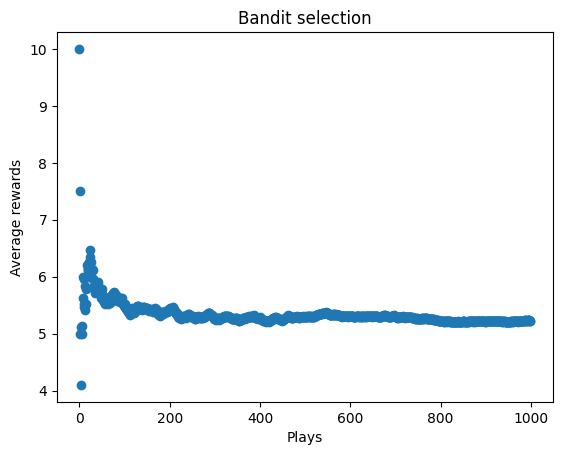
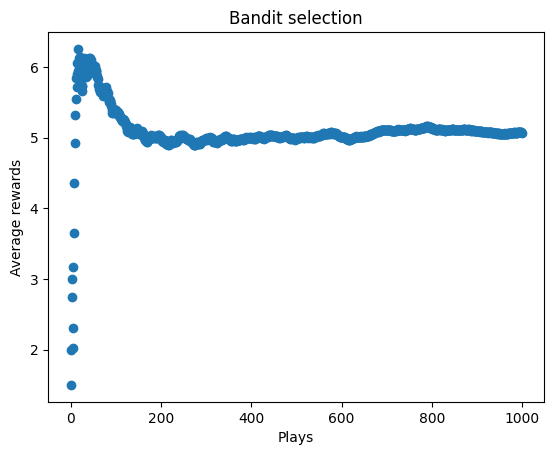
chore: simplify policy

diff --git a/docs/02_markov_decision_process.md b/docs/02_markov_decision_process.md
@@ -34,22 +34,24 @@ for _ in range(10):
     print(ma.add(random.randint(0, 5) + 5))
 ```
 
-    9.0
-    8.5
-    8.333333333333334
     8.0
-    7.6
-    7.833333333333333
-    7.857142857142857
-    7.5
-    7.777777777777778
-    7.6
+    6.5
+    6.333333333333333
+    7.25
+    6.8
+    7.0
+    7.142857142857143
+    7.375
+    7.111111111111111
+    7.3
 
 
 
 ```python
 class Bandit:
-    def __init__(self, n_arms=10):
+    def __init__(self, n_arms=10, seed=None):
+        if seed is not None:
+            np.random.seed(seed)
         self.n_arms = n_arms
         self.probs = np.random.random(n_arms)
         self.pulls = np.zeros(self.n_arms)
@@ -61,8 +63,11 @@ class Bandit:
             reward += random.random() < prob
         return reward
 
+    def policy(self):
+        return random.randrange(0, self.n_arms)
+
     def pull(self):
-        arm = random.randrange(0, self.n_arms)
+        arm = self.policy()
         reward = self.reward(self.probs[arm])
         pulls = self.pulls[arm]
         mean_reward = self.rewards[arm]
@@ -74,26 +79,17 @@ class Bandit:
 
 
 class GreedyBandit(Bandit):
-    def pull(self, e_greedy=0.2):
+    def policy(self, e_greedy=0.2):
         if random.random() < e_greedy:
             arm = random.randrange(0, self.n_arms)
         else:
             arm = np.argmax(self.rewards)
-        reward = self.reward(self.probs[arm])
-        pulls = self.pulls[arm]
-        mean_reward = self.rewards[arm]
-        mean_reward = (pulls * mean_reward + reward) / (pulls + 1)
-        self.rewards[arm] = mean_reward
-        self.pulls[arm] = pulls + 1
-
-        return mean_reward
+        return arm
 ```
 
 
 ```python
-random.seed(42)
-np.random.seed(42)
-bandit = Bandit(10)
+bandit = Bandit(10, seed=42)
 trials = 1000
 rewards = []
 ma = MovingAverage()
@@ -116,9 +112,7 @@ ax.set_ylabel("Average rewards");
 
 
 ```python
-random.seed(42)
-np.random.seed(42)
-bandit = GreedyBandit(10)
+bandit = GreedyBandit(10, seed=42)
 trials = 1000
 rewards = []
 ma = MovingAverage()
@@ -138,8 +132,6 @@ ax.set_ylabel("Average rewards");
 ![png](02_markov_decision_process_files/02_markov_decision_process_8_0.png)
     
 
-
-## 
 
 ## The softmax function
 
@@ -212,25 +204,16 @@ np.sum(softmax(np.arange(10)))
 
 ```python
 class SoftmaxBandit(Bandit):
-    def pull(self, tau=1.12):
+    def policy(self, tau=1.12):
         arms = np.arange(self.n_arms)
         p = softmax(self.rewards, tau=tau)
         arm = np.random.choice(arms, p=p)
-        reward = self.reward(self.probs[arm])
-        pulls = self.pulls[arm]
-        mean_reward = self.rewards[arm]
-        mean_reward = (pulls * mean_reward + reward) / (pulls + 1)
-        self.rewards[arm] = mean_reward
-        self.pulls[arm] = pulls + 1
-
-        return mean_reward
+        return arm
 ```
 
 
 ```python
-random.seed(42)
-np.random.seed(42)
-bandit = SoftmaxBandit(10)
+bandit = SoftmaxBandit(10, seed=42)
 trials = 1000
 rewards = []
 ma = MovingAverage()
@@ -247,6 +230,6 @@ ax.set_ylabel("Average rewards");
 
 
     
-![png](02_markov_decision_process_files/02_markov_decision_process_17_0.png)
+![png](02_markov_decision_process_files/02_markov_decision_process_16_0.png)
     
 
